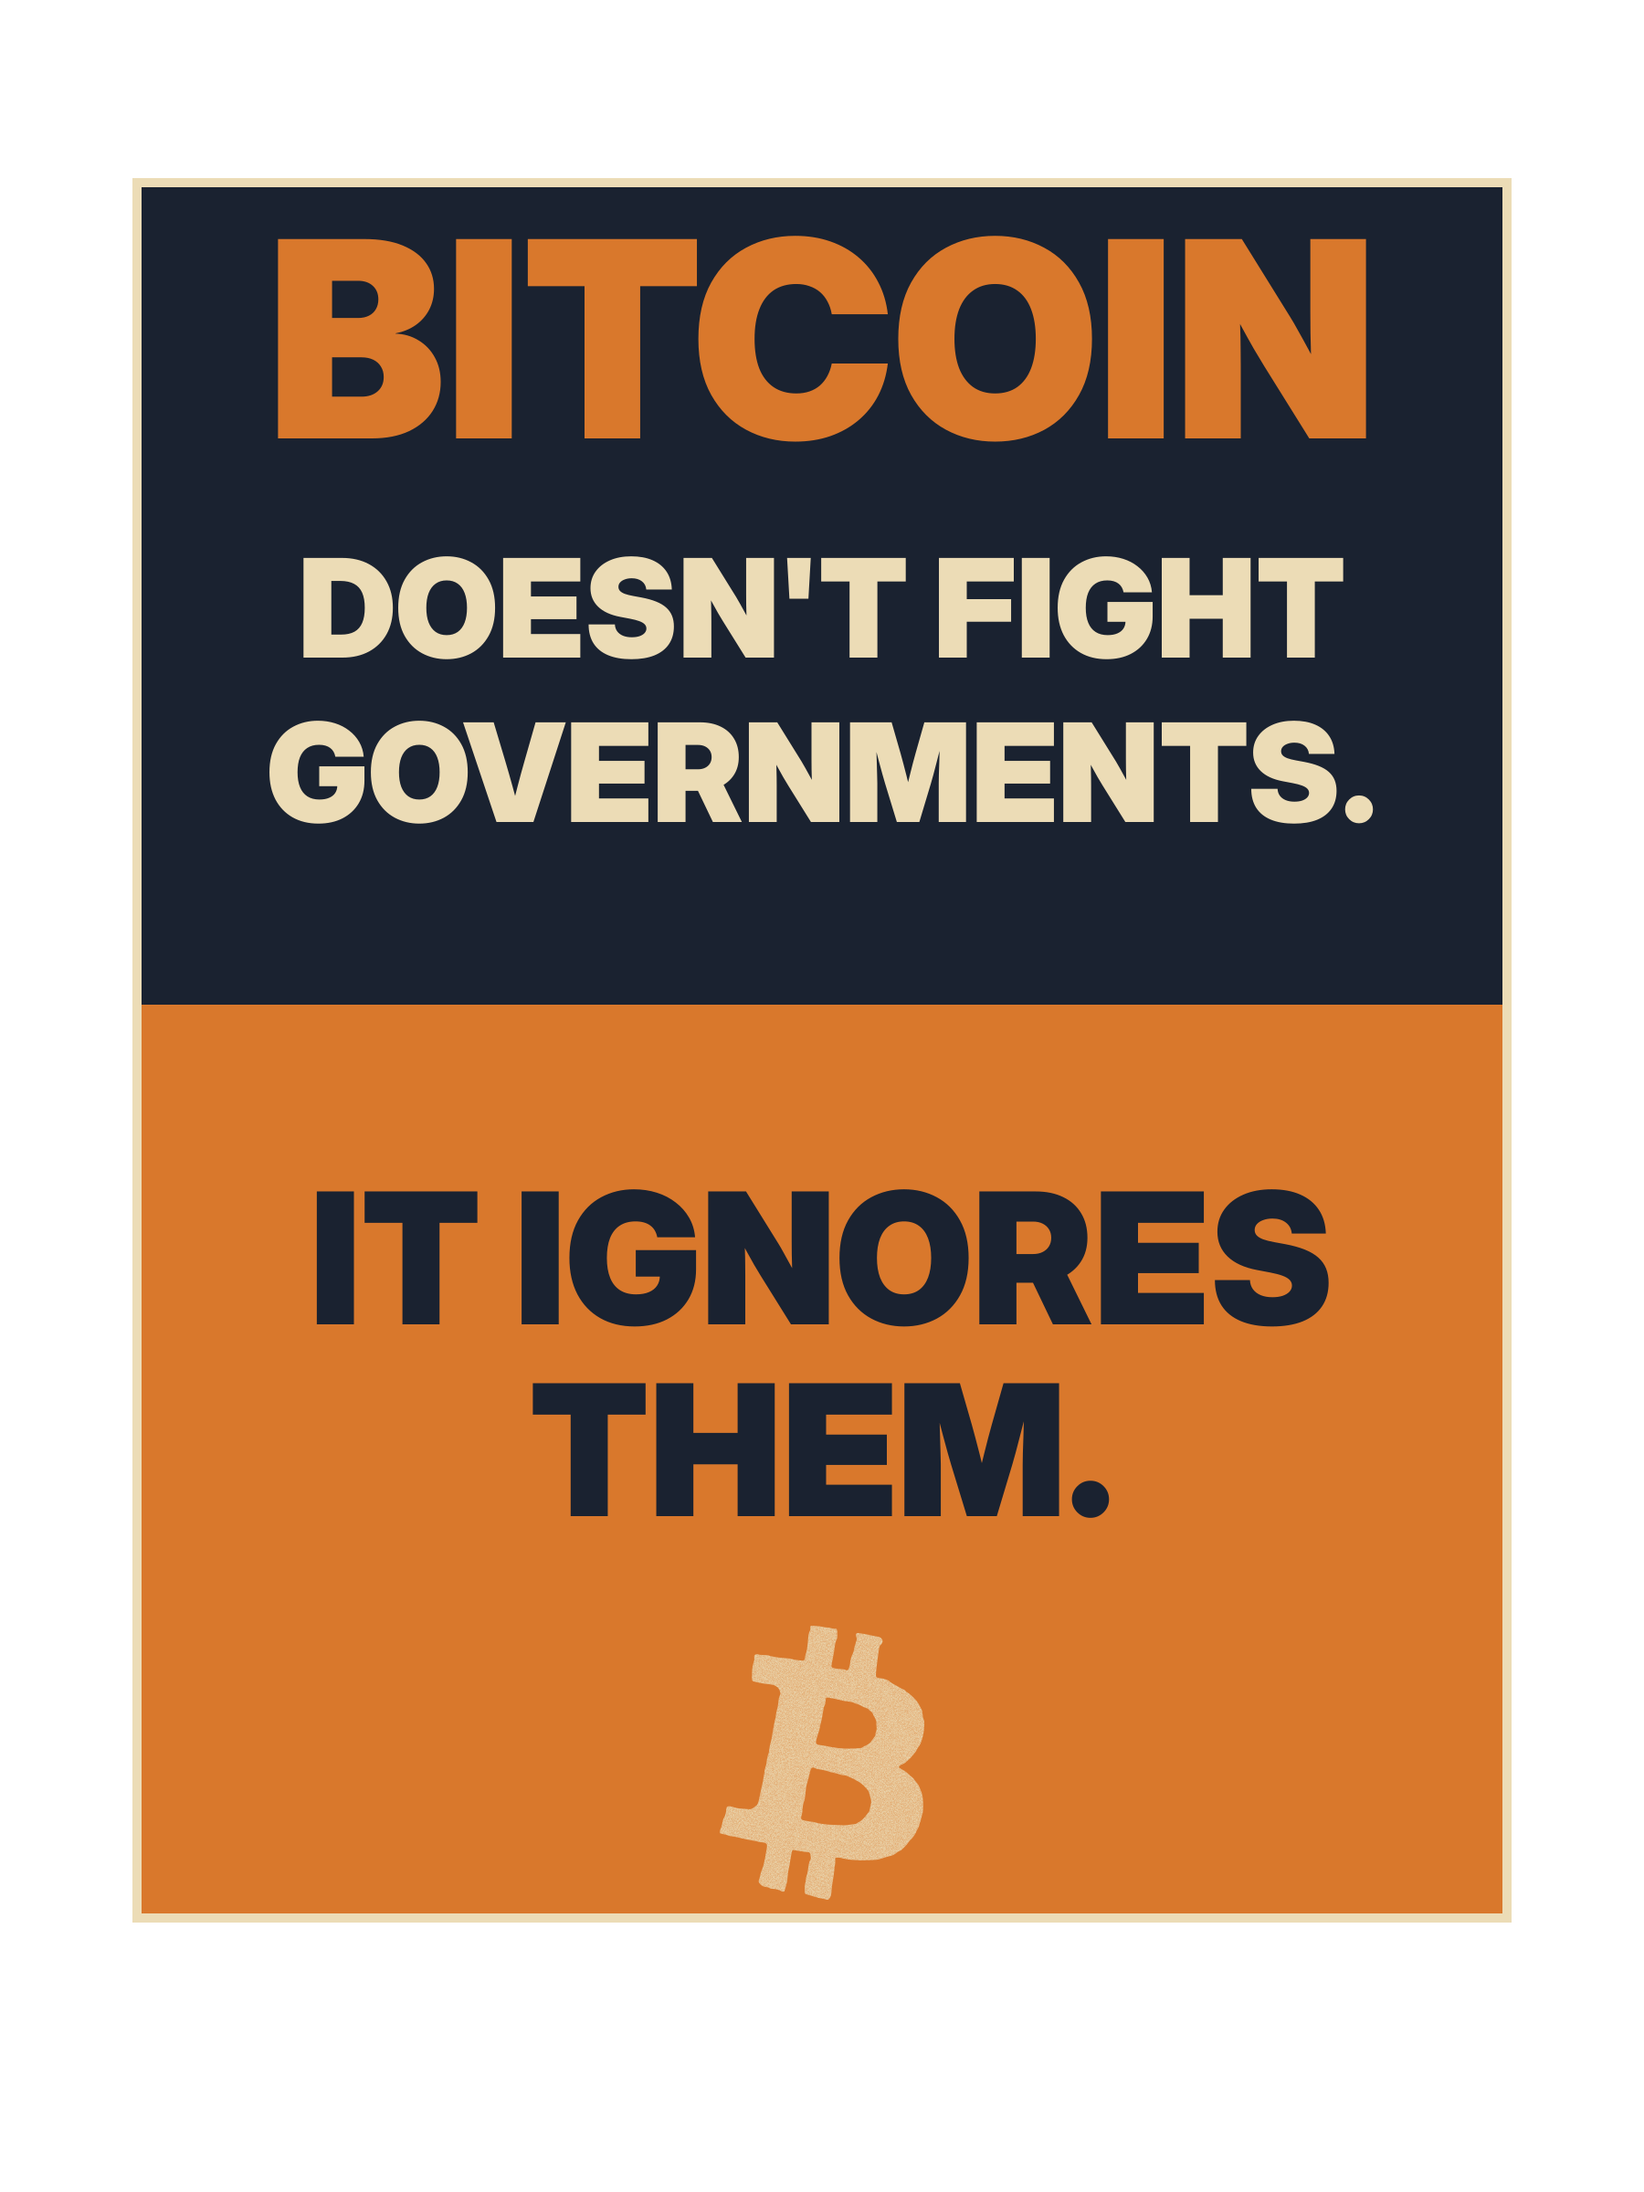
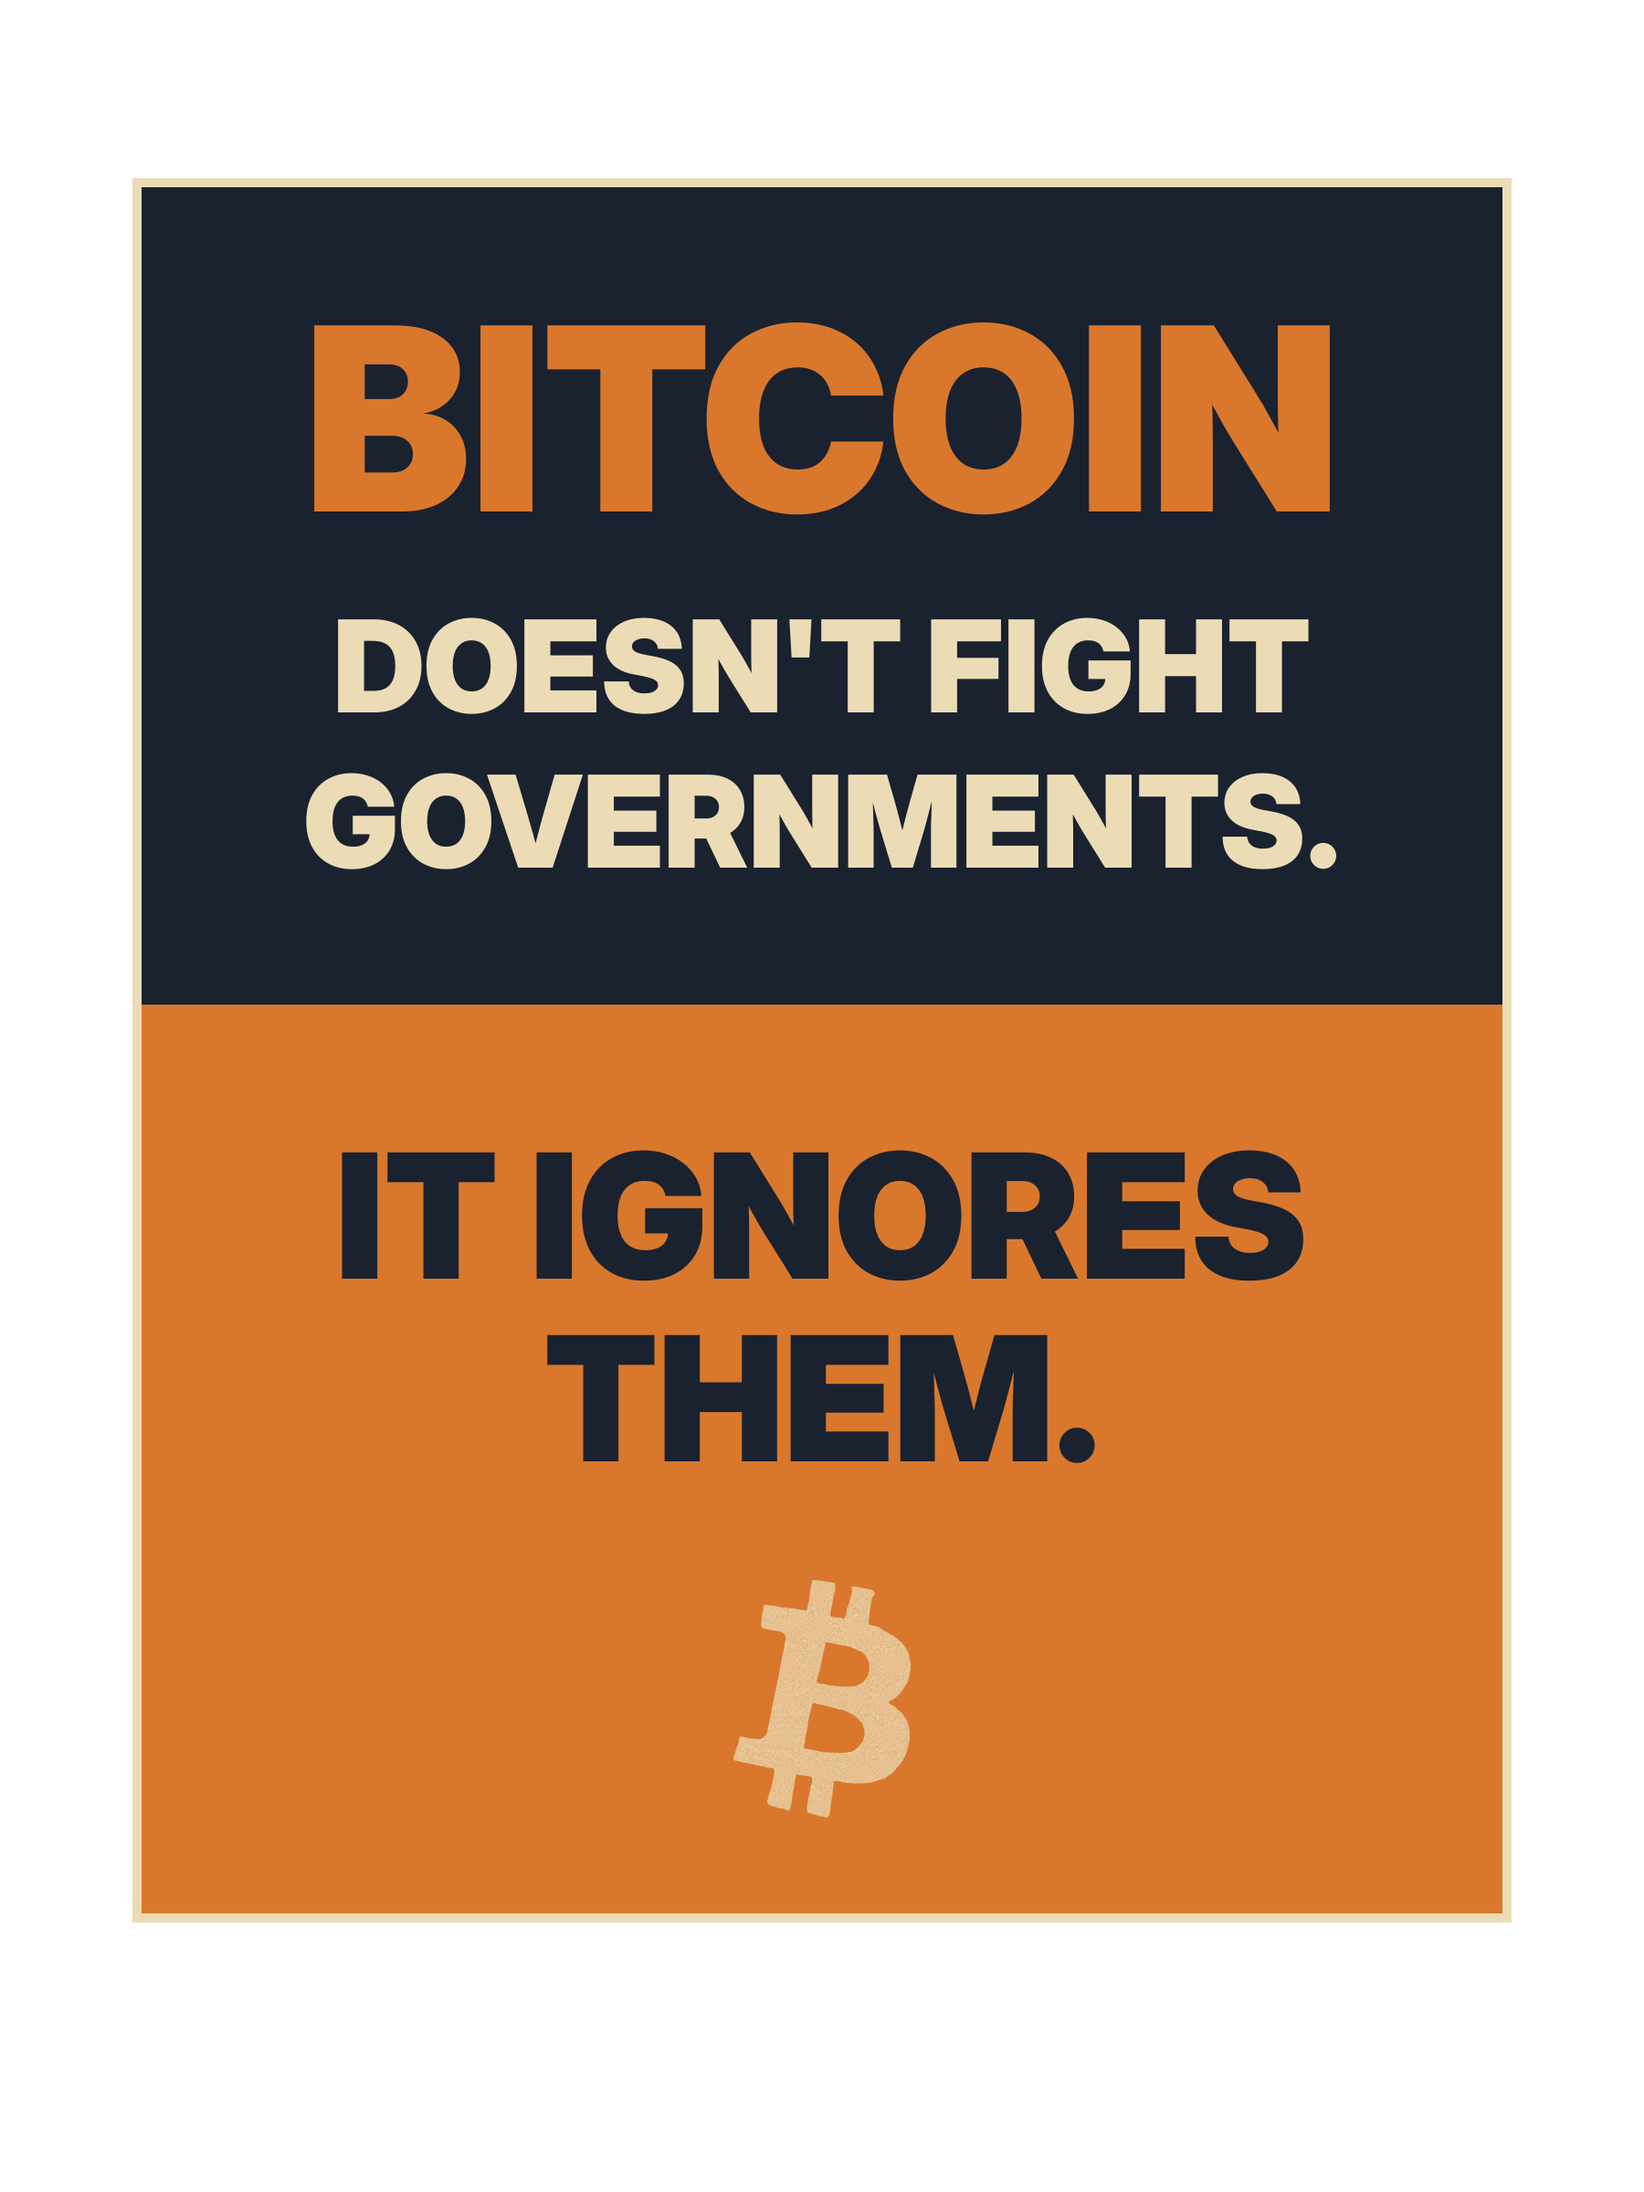
pack 03 round 2: joint man, orange circuitry accent, poster lowered with two lines, ecosystem title on top, care poster air, hard-vs-weak right column

Changed region(s): [[0.1556, 0.0938, 0.84, 0.4062], [0.1867, 0.5, 0.8089, 0.875]]

diff --git a/src/gen5.py b/src/gen5.py
@@ -61,14 +61,18 @@ b += img(f"{SRC}/vintage-man-alpha.png", 250, 820, 1300, 1300)
 b += f'<rect x="60" y="2080" width="1680" height="260" fill="{NAVY}"/>'
 b += txt(900, 2260, "YOU'RE SELLING FIAT.", 150, fill=CREAM)
 render("vintage-man-selling-fiat-back", 1800, 2400, b, "back-tee")
+if os.path.exists(f"{SRC}/joint-man-alpha.png"):
+    b = b.replace("vintage-man-alpha.png", "joint-man-alpha.png")
+    render("joint-man-selling-fiat-back", 1800, 2400, b, "back-tee")
 
 # 2. the monster poster — painting on top, our title block over the bottom
 b = f'<clipPath id="pc"><rect x="60" y="60" width="1680" height="2280"/></clipPath><g clip-path="url(#pc)">'
-b += img(f"{SRC}/poster.png", 60, 60, 1680, 1680 * 1536 / 1024, 'preserveAspectRatio="xMinYMin slice"')
+b += img(f"{SRC}/poster.png", 60, 420, 1680, 1680 * 1536 / 1024, 'preserveAspectRatio="xMinYMin slice"')
 b += '</g>'
+b += f'<rect x="60" y="60" width="1680" height="360" fill="{INK}"/>'
 b += f'<rect x="60" y="1720" width="1680" height="620" fill="{INK}"/>'
-b += txt(900, 210, "UNSTOPPABLE... UNCENSORABLE!", 88, fill=RED, weight=900)
-b += txt(900, 300, "21 MILLION, AND NOT ONE MORE.", 62, fill=WHITE, weight=800)
+b += txt(900, 180, "UNSTOPPABLE!", 96, fill=RED, weight=900) + txt(900, 290, "UNCENSORABLE!", 96, fill=RED, weight=900)
+b += txt(900, 380, "21 MILLION, AND NOT ONE MORE.", 56, fill=WHITE, weight=800)
 b += txt(900, 1960, "BITCOIN", 300, fill=RED, extra='filter="url(#drip)"')
 b += txt(900, 2130, "in COLOR", 120, fill=WHITE, weight=800)
 b += txt(900, 2270, "THE MONEY BANKERS CAN'T PRINT AND POLITICIANS CAN'T STOP", 46, fill="#bdbdbd", weight=700)
@@ -85,8 +89,8 @@ b += txt(900, 2170, "SATOSHI", 300, fill=CREAM, extra='filter="url(#drip)"')
 render("thank-you-satoshi-window-back", 1800, 2400, b, "back-tee", DRIP + GRAIN)
 
 # 4. the ecosystem schematic — a white card with the line work (the 4× upscale), tee back
-b = f'<rect x="90" y="390" width="1620" height="1620" rx="30" fill="{WHITE}"/>'
-b += img(f"{SRC}/eco-x4.png", 120, 420, 1560, 1560)
-b += txt(900, 2160, "THE BITCOIN ECOSYSTEM", 96, fill=WHITE) + txt(900, 2260, "proof of work · nodes · miners · the grid", 34, fill=ORANGE, font=PIX, weight=400)
+b = txt(900, 300, "THE BITCOIN ECOSYSTEM", 96, fill=WHITE) + txt(900, 400, "proof of work · nodes · miners · the grid", 34, fill=ORANGE, font=PIX, weight=400)
+b += f'<rect x="90" y="520" width="1620" height="1620" rx="30" fill="{WHITE}"/>'
+b += img(f"{SRC}/eco-x4.png", 120, 550, 1560, 1560)
 render("bitcoin-ecosystem-card-back", 1800, 2400, b, "back-tee")
 print("done →", OUT)

diff --git a/src/gen4.py b/src/gen4.py
@@ -72,10 +72,10 @@ for nm, fill, grain in (("care-b-sticker-cream-grain", CREAM, True), ("care-b-st
 # the poster back: navy block + orange block, the line, the ₿ — the reference's register, our type
 b = (f'<rect x="150" y="200" width="1500" height="900" fill="{NAVY}"/>'
      f'<rect x="150" y="1100" width="1500" height="1000" fill="{ORANGE_C}"/>')
-b += txt(900, 480, "BITCOIN", 300, fill=ORANGE_C)
-b += txt(900, 720, "DOESN'T FIGHT", 150, fill=CREAM) + txt(900, 900, "GOVERNMENTS.", 150, fill=CREAM)
-b += txt(900, 1450, "IT IGNORES", 200, fill=NAVY) + txt(900, 1660, "THEM.", 200, fill=NAVY)
-b += care_b(900, 1930, 300)
+b += txt(900, 560, "BITCOIN", 280, fill=ORANGE_C)
+b += txt(900, 780, "DOESN'T FIGHT", 140, fill=CREAM) + txt(900, 950, "GOVERNMENTS.", 140, fill=CREAM)
+b += txt(900, 1400, "IT IGNORES", 190, fill=NAVY) + txt(900, 1600, "THEM.", 190, fill=NAVY)
+b += care_b(900, 1860, 260)
 b += f'<rect x="150" y="200" width="1500" height="1900" fill="none" stroke="{CREAM}" stroke-width="10"/>'
 render("care-poster-back", 1800, 2400, b, "back-tee", GRAIN)
 
@@ -138,7 +138,7 @@ y = 900
 for left, right in rows:
     b += f'<rect x="120" y="{y-95}" width="1560" height="170" rx="30" fill="#151515"/>'
     b += f'<line x1="900" y1="{y-80}" x2="900" y2="{y+60}" stroke="#333" stroke-width="6"/>'
-    b += txt(470, y + 22, left, 68, fill=GREEN) + txt(1330, y + 22, right, 68, fill=RED)
+    b += txt(470, y + 22, left, 66, fill=GREEN) + txt(1300, y + 22, right, 60, fill=RED)
     y += 205
 render("hard-vs-weak-back", 1800, 2400, b, "back-tee", GRAIN)
 print("done →", OUT)
